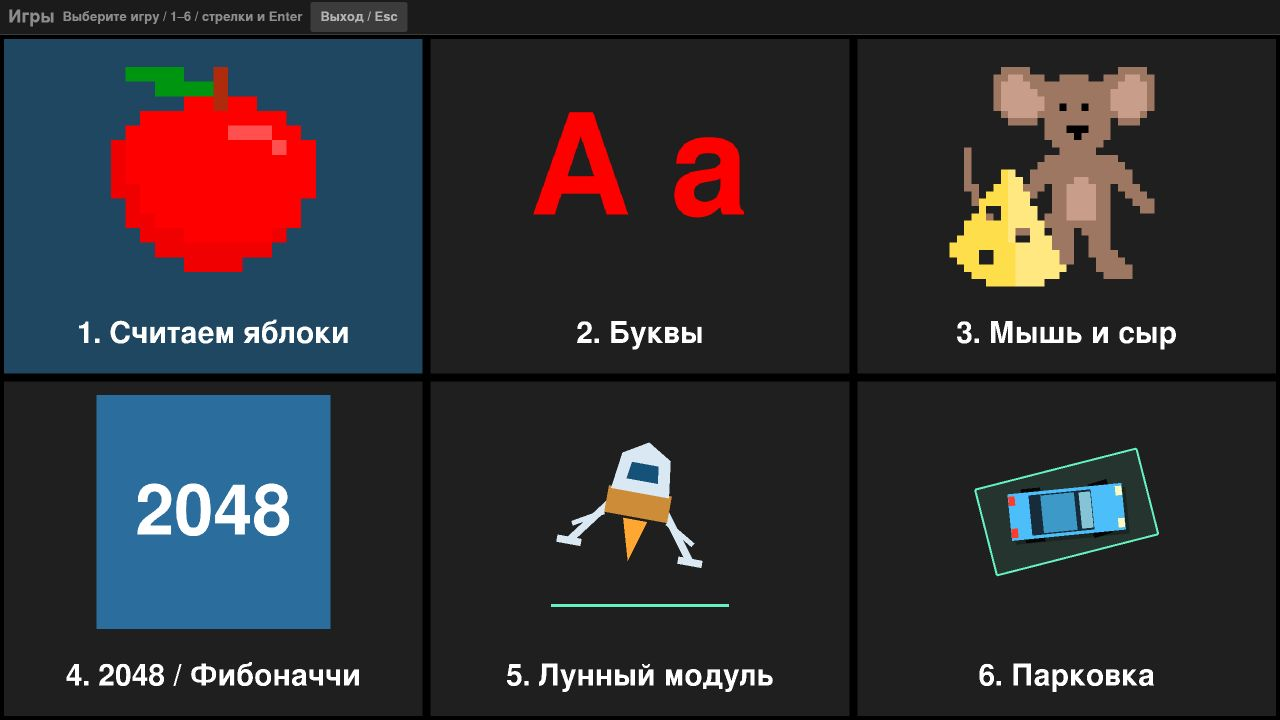
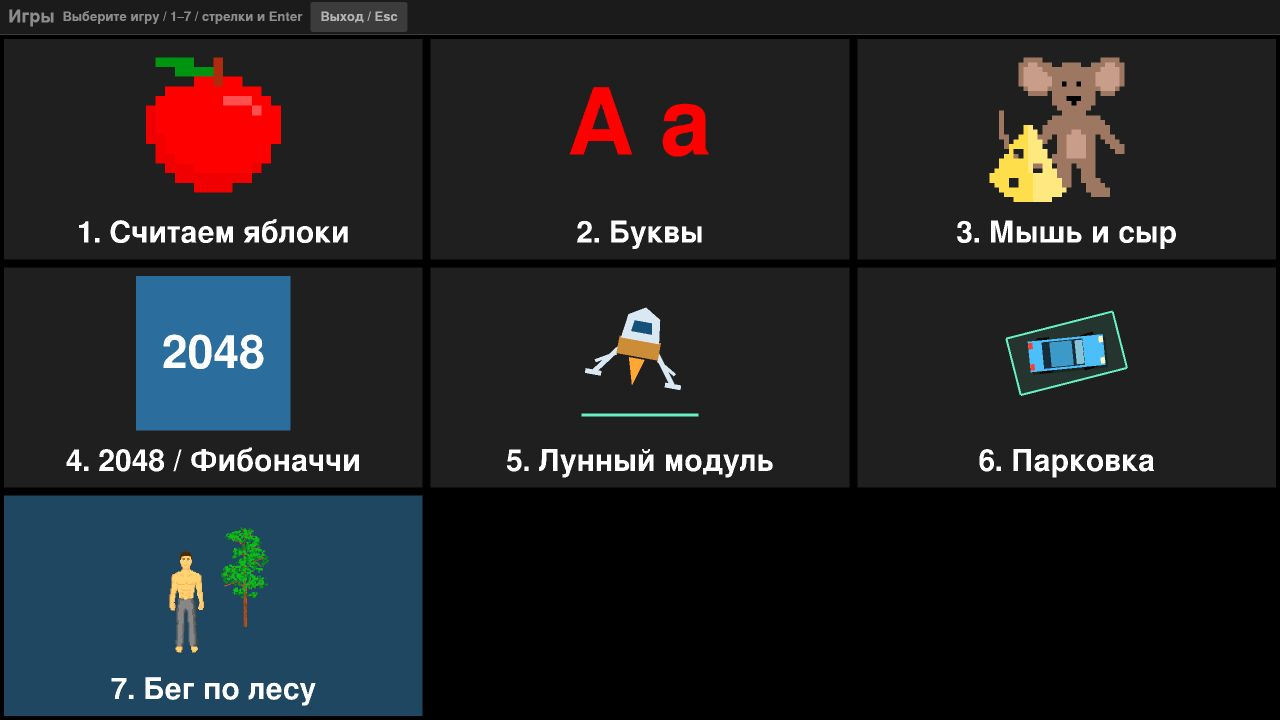
Consolidate Run into the Games gallery entry

diff --git a/site/index.html b/site/index.html
@@ -25,11 +25,10 @@
         <section id="games" aria-labelledby="games-title">
           <h2 id="games-title">Games</h2>
           <ul class="link-grid preview-grid">
-            <li><a href="https://agerasev.github.io/run/"><img src="previews/run.jpg" alt="A running character in a generated forest" width="1280" height="720">Run</a><p>An animated character in a generated forest.</p></li>
             <li><a href="https://agerasev.github.io/bounce/"><img src="previews/bounce.jpg" alt="Rigid bodies in the Bounce physics sandbox" width="1280" height="720" loading="lazy">Bounce</a><p>A sandbox for rigid-body collisions.</p></li>
             <li><a href="https://agerasev.github.io/gravity/"><img src="previews/gravity.jpg" alt="Bodies and orbital paths in Gravity" width="1280" height="720" loading="lazy">Gravity</a><p>An orbital simulation with interactive bodies.</p></li>
             <li><a href="https://agerasev.github.io/drive/"><img src="previews/drive.jpg" alt="A vehicle in the Drive 3D simulation" width="1280" height="720" loading="lazy">Drive</a><p>A 3D driving simulation.</p></li>
-            <li><a href="https://agerasev.github.io/games/"><img src="previews/games.jpg" alt="The Games collection launcher" width="1280" height="720" loading="lazy">Games</a><p>Puzzles, parking, a moon lander, and other games.</p></li>
+            <li><a href="https://agerasev.github.io/games/"><img src="previews/games.jpg" alt="The Games collection launcher" width="1280" height="720" loading="lazy">Games</a><p>Puzzles, parking, a moon lander, and a forest walk.</p></li>
             <li><a href="https://agerasev.github.io/moss-and-mere/"><img src="previews/moss-and-mere.jpg" alt="The village and woodland in Moss &amp; Mere" width="1280" height="720" loading="lazy">Moss &amp; Mere</a><p>A fantasy RPG with exploration, villagers, combat, and quests.</p></li>
             <li><a href="https://agerasev.github.io/hypertrace/"><img src="previews/hypertrace.webp" alt="Hypertrace's native compute rendering of hyperbolic space" width="1280" height="960" loading="lazy">Hypertrace</a><p>A non-Euclidean space renderer. <strong>Requires a WebGPU-capable browser and GPU.</strong></p></li>
           </ul>
